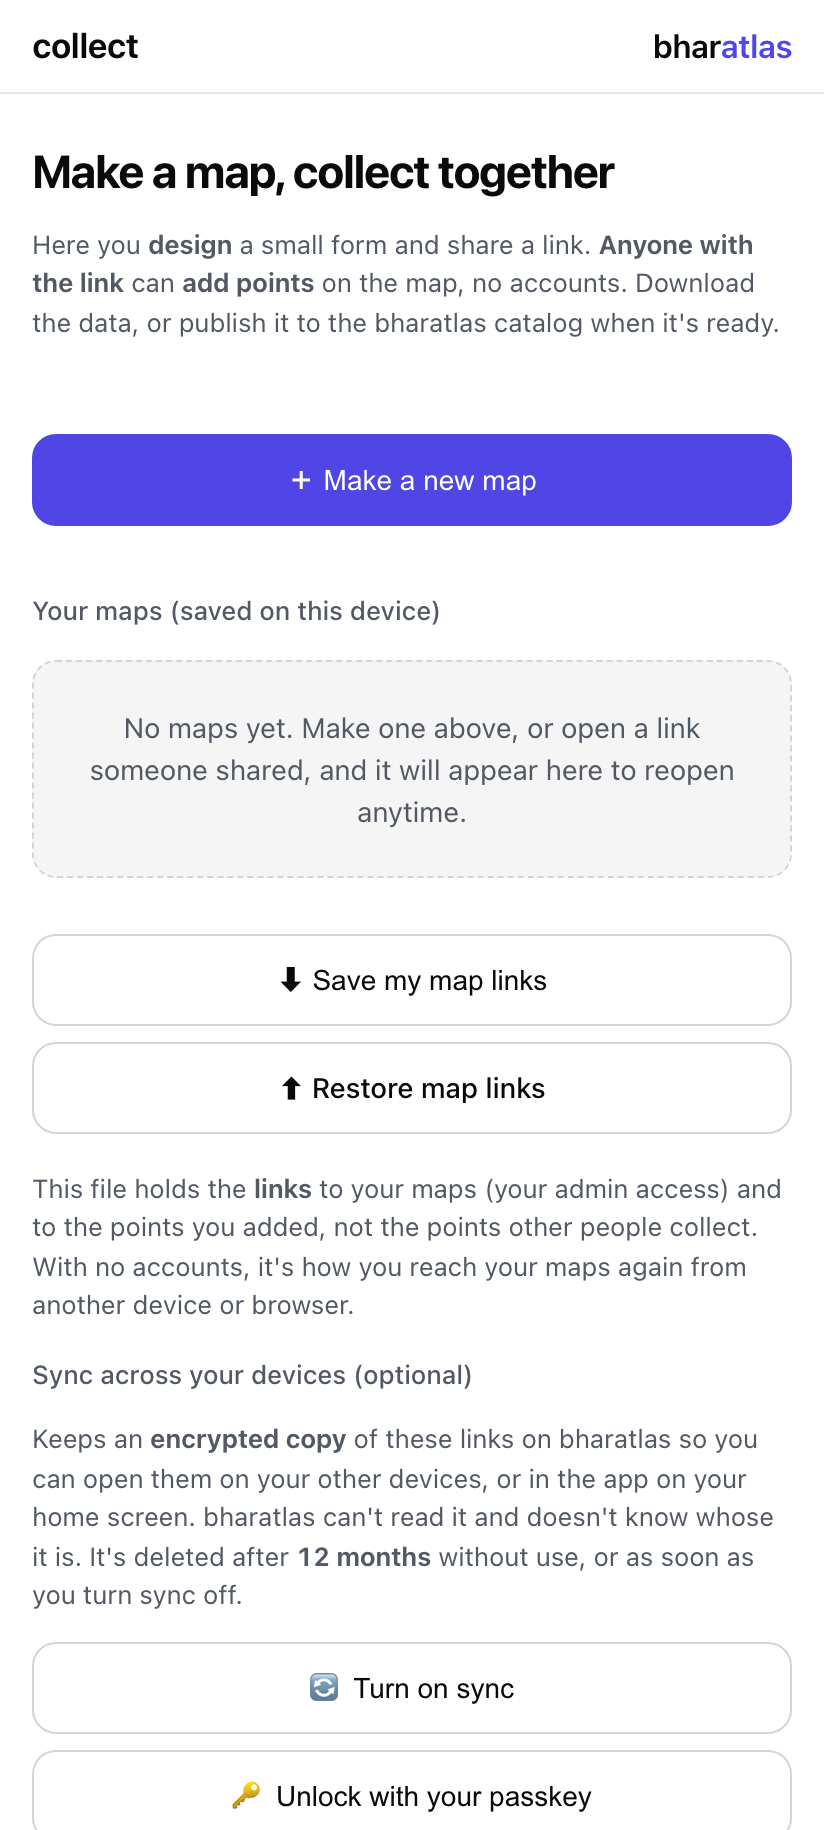
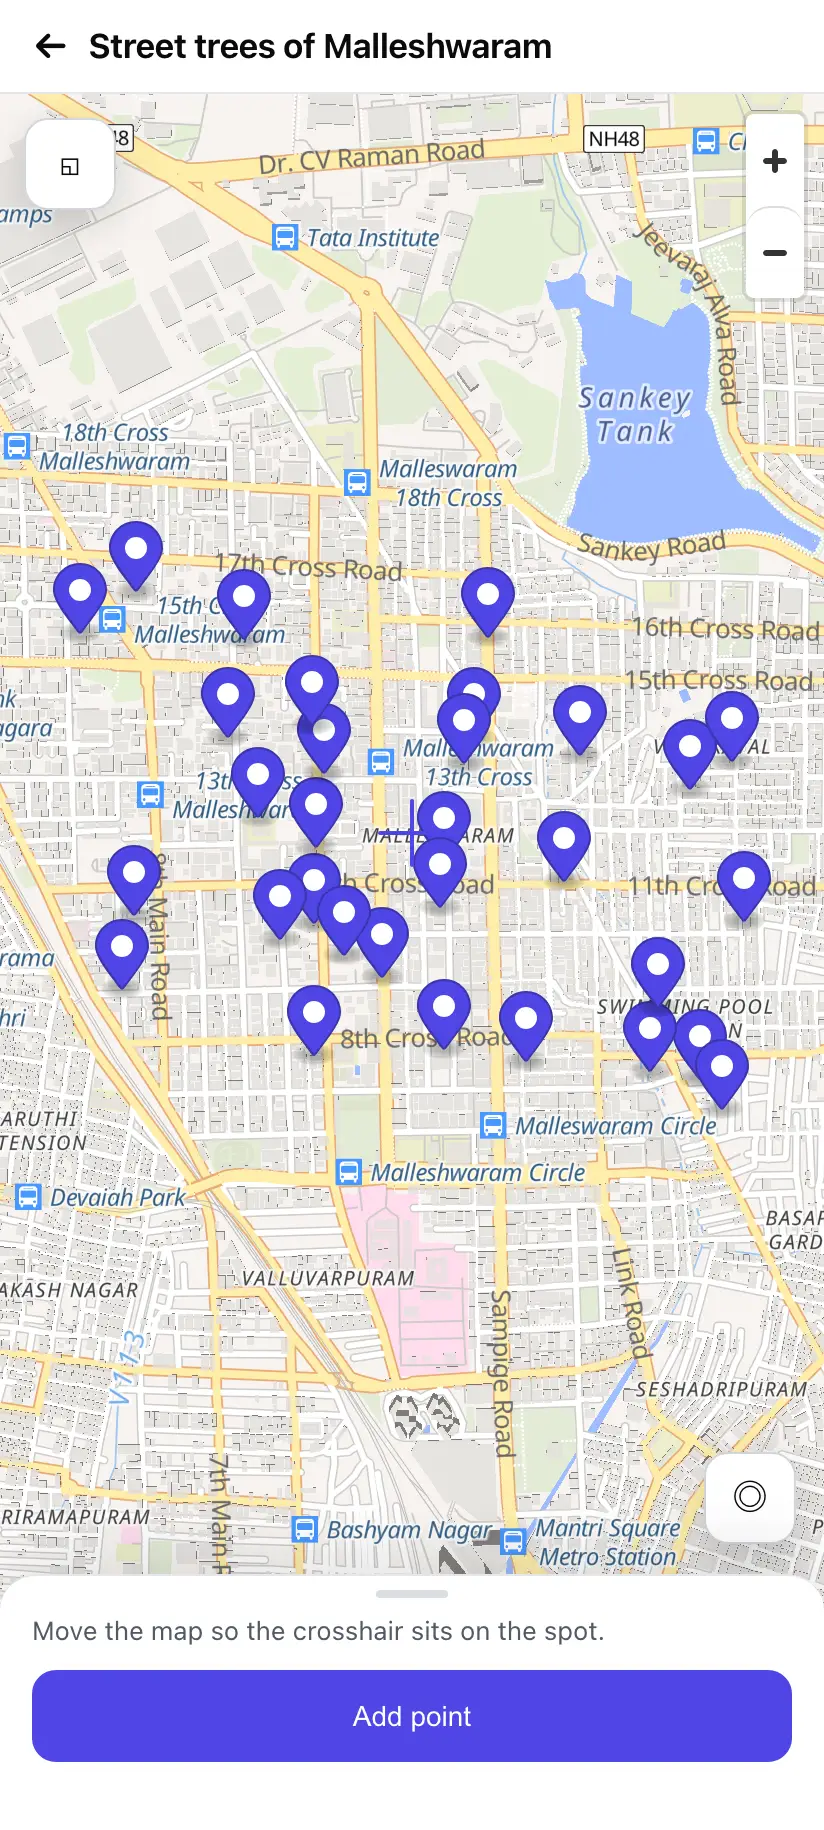
collect: plain message for a dead link, workflow watches its web/ imports, map screenshots (#210)
* collect: say plainly when a map link no longer works

Opening a map whose link the owner turned off (or a map that no longer
exists; the server answers both alike) showed "Couldn't load / unauthorised".
It now says the link no longer works, why that may be, and to ask whoever
shared it for a new link. Server refusals carry their status (ApiError) so the
page can tell them apart; the message is now escaped before it is shown.

* ci(collect): run collect's workflow when a web/ file it imports changes

collect imports eight web/ files (the submission helpers, tokens, licences,
turnstile, the install button, util, the manifest test helper), but its
workflow watched only collect/ and shared/, so a change there skipped
collect's tests and deploy. They are now watched, and a test follows collect's
imports (through web/ too) and fails if one is missing from either trigger.

* collect: install screenshots show a map with points, not the empty landing page

Captured from a local collect with a demo map (31 street trees in
Malleshwaram, Bengaluru, on the Streets basemap); no demo data in production.
Same sizes as before (824x1830, 1280x800), 200 KB and 193 KB.

---------

diff --git a/collect/tests/workflow-paths.test.ts b/collect/tests/workflow-paths.test.ts
@@ -1,0 +1,51 @@
+// collect's workflow runs only when its watched paths change. collect also
+// imports some of web/'s files, so a change there must rerun collect's tests
+// and deploy too.
+import { describe, it, expect } from 'vitest';
+import { existsSync, readFileSync, readdirSync, statSync } from 'node:fs';
+import { join, resolve, relative, dirname } from 'node:path';
+
+const repo = resolve(__dirname, '../..');
+const workflow = readFileSync(join(repo, '.github/workflows/collect.yml'), 'utf8');
+/** The `paths:` list under an `on:` event (a YAML block list of quoted paths). */
+const watched = (key: 'push' | 'pull_request') => {
+  const block = workflow.split(`\n  ${key}:\n`)[1]?.split(/\n  \S/)[0] ?? '';
+  return [...block.matchAll(/^\s+- '([^']+)'/gm)].map((m) => m[1]);
+};
+const covers = (globs: string[], file: string) =>
+  globs.some((g) => (g.endsWith('/**') ? file.startsWith(g.slice(0, -2)) : file === g));
+
+function files(dir: string): string[] {
+  return readdirSync(dir).flatMap((n) => {
+    const p = join(dir, n);
+    if (n === 'node_modules' || n === 'dist') return [];
+    return statSync(p).isDirectory() ? files(p) : /\.(ts|mjs|js)$/.test(n) ? [p] : [];
+  });
+}
+
+const importsOf = (file: string) =>
+  [...readFileSync(file, 'utf8').matchAll(/from '(\.{1,2}\/[^']+)'/g)].map((m) => resolve(dirname(file), m[1]));
+const asFile = (p: string) => [p, `${p}.ts`, `${p}.mjs`, join(p, 'index.ts')].find((f) => existsSync(f) && statSync(f).isFile());
+
+/** Every file outside collect/ that collect's code or tests import, directly or through another such file. */
+const outside = new Set<string>();
+const queue = ['src', 'functions', 'tests'].flatMap((d) => files(join(repo, 'collect', d))).flatMap(importsOf);
+while (queue.length) {
+  const f = asFile(queue.pop()!);
+  const rel = f && relative(repo, f);
+  if (!f || !rel || rel.startsWith('collect/') || rel.startsWith('..') || outside.has(rel)) continue;
+  outside.add(rel);
+  queue.push(...importsOf(f));
+}
+
+describe("collect's workflow triggers", () => {
+  it('finds the web/ files collect imports (the check is looking)', () => {
+    expect([...outside].some((p) => p.startsWith('web/'))).toBe(true);
+  });
+  for (const key of ['push', 'pull_request'] as const) {
+    it(`${key}: watches every file outside collect/ that collect imports`, () => {
+      const missing = [...outside].filter((p) => !covers(watched(key), p));
+      expect(missing).toEqual([]);
+    });
+  }
+});

diff --git a/collect/src/api.ts b/collect/src/api.ts
@@ -29,11 +29,29 @@ export async function api(path: string, token: string, init?: RequestInit): Prom
   return fetch(`/api/collect/v1${path}`, { ...init, headers });
 }
 
+/** A server's refusal, with its HTTP status so the page can explain it. */
+export class ApiError extends Error {
+  constructor(message: string, readonly status: number) {
+    super(message);
+    this.name = 'ApiError';
+  }
+}
+
 // The JSON body of a response, or its error message thrown.
 async function readJson<T>(res: Response): Promise<T> {
   const body = await res.json().catch(() => ({}));
-  if (!res.ok) throw new Error((body as { error?: string }).error || `HTTP ${res.status}`);
+  if (!res.ok) throw new ApiError((body as { error?: string }).error || `HTTP ${res.status}`, res.status);
   return body as T;
+}
+
+export const LINK_OFF =
+  "This collect link no longer works. The map's owner may have turned the link off or deleted the map. Ask the person who shared it for a new link.";
+
+/** Why a map couldn't open, in plain words. The server answers 401 for a turned-off
+ *  link and for a map that doesn't exist alike, so it never reveals which maps exist. */
+export function loadErrorText(e: unknown): string {
+  if (e instanceof ApiError && e.status === 401) return LINK_OFF;
+  return (e as Error)?.message || 'Something went wrong.';
 }
 
 export async function apiJson<T = unknown>(path: string, token: string, init?: RequestInit): Promise<T> {

diff --git a/collect/src/app.ts b/collect/src/app.ts
@@ -9,7 +9,7 @@ import { addReferenceOverlay, setReferenceVisible } from './geo/reference';
 import { type RefLayer } from './geo/catalog';
 import { mountLayerPicker } from './geo/layer-picker';
 import { CATEGORIES, OPEN_LICENCES } from './options';
-import { parseCtx, api, apiJson, jsonWithOfflineCopy, type Ctx } from './api';
+import { parseCtx, api, apiJson, jsonWithOfflineCopy, loadErrorText, type Ctx } from './api';
 import { basemapOfflineNote, isConnectionError } from './offline-notes';
 import { savePoint, queuedFor, discardQueued, sendQueued, sendWhenOnline, OUTBOX_CHANGED, type Saved, type OutboxChange } from './send-queue';
 import { validateRecordProperties, type Field } from './schema/validate-record';
@@ -1565,6 +1565,6 @@ if (!initCtx?.token) {
   ctx = initCtx;
   app.innerHTML = `<div class="pad center"><span class="spinner"></span><p class="hint">Loading…</p></div>`;
   (initCtx.mode === 'record' ? recordEditor() : boot()).catch((e) => {
-    app.innerHTML = `<div class="pad"><h1>Couldn't load</h1><p class="warn">${(e as Error).message}</p></div>`;
+    app.innerHTML = `<div class="pad"><h1>Couldn't open this map</h1><p class="warn">${escapeHtml(loadErrorText(e))}</p></div>`;
   });
 }

diff --git a/collect/tests/load-errors.test.ts b/collect/tests/load-errors.test.ts
@@ -1,0 +1,22 @@
+// What a contributor sees when a collect map can't open: plain words for a link
+// the owner turned off (or a map that no longer exists: the server answers the
+// same, so as not to reveal which maps exist), or no connection.
+import { describe, it, expect } from 'vitest';
+import { ApiError, loadErrorText, LINK_OFF } from '../src/api';
+
+describe('why a map could not open', () => {
+  it('a link the owner turned off (or a wrong one) says so, and what to do', () => {
+    const text = loadErrorText(new ApiError('unauthorised', 401));
+    expect(text).toBe(LINK_OFF);
+    expect(LINK_OFF).toMatch(/no longer works/);
+    expect(LINK_OFF).toMatch(/deleted/);
+    expect(LINK_OFF).toMatch(/ask (the person|whoever) who shared it/i);
+  });
+  it('offline, keeps the offline explanation', () => {
+    const offline = new Error("You're offline, and this map hasn't been opened on this device with a connection yet.");
+    expect(loadErrorText(offline)).toBe(offline.message);
+  });
+  it('anything else keeps the server\'s reason', () => {
+    expect(loadErrorText(new ApiError('rate limit', 429))).toBe('rate limit');
+  });
+});
